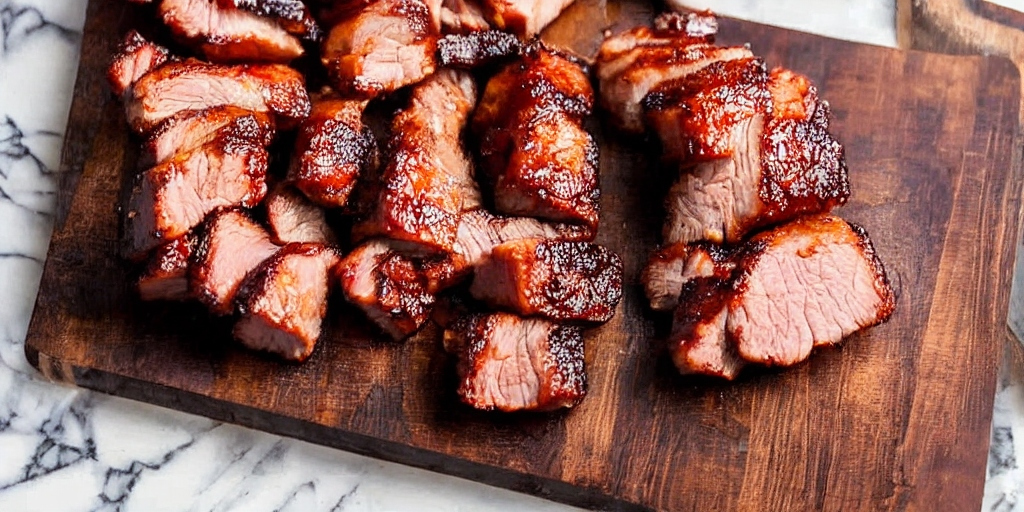
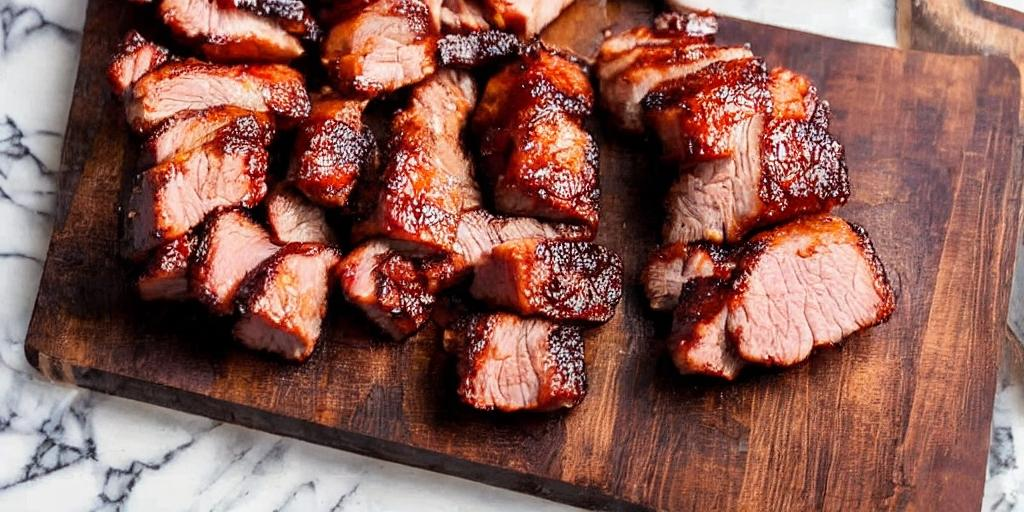
Optimize the image loading performance across site
Before, I was using non-compressed, non-resized, not defined width nor
height images, which got marked as diagnostic guidance in Google's
Lighthouse audit.

Now, with compressed, resized, and defined images, page performance is
better across the board, and Google's Lighthouse audit doesn't get mad.

Side-effects: Because the thumbnail images are specifically sized for
the current size of the thumbnail in the yoinked recipes section of the
home page, that might be an obstacle for a responsive design overhaul.

In case I forget what I did here specifically:
- Created dedicated re-sized & compressed thumbnails for the all recipes
section of the homepage
- Compressed images for the hero banners
- Set up the default image format to be webp, and fallbacks to jpg
- Set up preloads for the largest content picture all of the pages
- Ensured images have defined width & height within HTML

diff --git a/index.html b/index.html
@@ -6,16 +6,17 @@
         <meta name="viewport" content="width=device-width, initial-scale=1.0">
         <title>Home | *YOINKED*</title>
         <link rel="stylesheet" href="./styles.css">
+        <link rel="preload" fetchpriority="high" as="image" href="./assets/images/air-fryer-char-siu.webp" type="image/webp">
     </head>
     <body>
         <header>
             <a href="./" aria-label="*YOINKED* homepage">
-                <img class="logo-image" src="./assets/logos/rectangle-logo.svg" alt="*YOINKED* logo">
+                <img class="logo-image" src="./assets/logos/rectangle-logo.svg" alt="*YOINKED* logo" height="49" width="200">
             </a>
             <a class="header-level-entry" href="#yoinked-recipes">Recipes</a>
         </header>
-        <div class="featured">
-            <section class="featured-card">
+        <div class="featured air-fryer-char-siu-bg-img">
+            <section class="featured-card ">
                 <h2>Air Fryer Char Siu</h2>
                 <p>Succulent, sweet, and savory pork.</p>
                 <small>Yoinked from: Made with Lau</small>
@@ -28,7 +29,10 @@
                 <li>
                     <a href="./recipes/air-fryer-char-siu">
                         <figure>
-                            <img src="./assets/images/air-fryer-char-siu.jpg" height="140" width="156" alt="Chopped char siu on a wooden cutting board.">
+                            <picture>
+                                <source srcset="./assets/thumbnails/air-fryer-char-siu-thumbnail.webp" type="image/webp" height="140" width="156">
+                                <img src="./assets/thumbnails/air-fryer-char-siu-thumbnail.jpg" height="140" width="156" alt="Chopped char siu on a wooden cutting board.">
+                            </picture>
                             <figcaption>Air Fryer Char Siu</figcaption>
                         </figure>
                     </a>
@@ -36,7 +40,10 @@
                 <li>
                     <a href="./recipes/butter-chicken">
                         <figure>
-                            <img src="./assets/images/butter-chicken-and-rice.jpg" height="140" width="156" alt="Butter chicken & basmati rice in bowls.">
+                            <picture>
+                                <source srcset="./assets/thumbnails/butter-chicken-and-rice-thumbnail.webp" type="image/webp" height="140" width="156">
+                                <img src="./assets/thumbnails/butter-chicken-and-rice-thumbnail.jpg" height="140" width="156" alt="Butter chicken & basmati rice in bowls.">
+                            </picture>
                             <figcaption>Butter Chicken</figcaption>
                         </figure>
                     </a>
@@ -44,7 +51,10 @@
                 <li>
                     <a href="./recipes/steak-burrito-bowl">
                         <figure>
-                            <img src="./assets/images/steak-burrito-bowl.jpg" height="140" width="156" alt="Steak burrito bowl on a wood board.">
+                            <picture>
+                                <source srcset="./assets/thumbnails/steak-burrito-bowl-thumbnail.webp" type="image/webp" height="140" width="156">
+                                <img src="./assets/thumbnails/steak-burrito-bowl-thumbnail.jpg" height="140" width="156" alt="Steak burrito bowl on a wood board.">
+                            </picture>
                             <figcaption>Steak Burrito Bowl</figcaption>
                         </figure>
                     </a>

diff --git a/styles.css b/styles.css
@@ -50,7 +50,6 @@ footer {
 
 /* Featured Content Styling */
 .featured {
-   background-image: url("./assets/images/air-fryer-char-siu.jpg");
    background-color: grey;
    display: flex;
    flex-direction: row-reverse;
@@ -120,8 +119,6 @@ footer {
 }
 
 figure img {
-   object-fit: cover;
-   object-position: center;
    border-radius: 12px 12px 0 0 ;
 }
 
@@ -205,16 +202,16 @@ main {
 
 /* Images */
 .air-fryer-char-siu-bg-img {
-   background-image: url("./assets/images/air-fryer-char-siu.jpg");
+   background-image: url("./assets/images/air-fryer-char-siu.webp");
    background-position: 50% 25%;
 }
 
 .butter-chicken-and-rice-bg-img {
-   background-image: url("./assets/images/butter-chicken-and-rice.jpg");
+   background-image: url("./assets/images/butter-chicken-and-rice.webp");
    background-position: 50% 65%;
 }
 
 .steak-burrito-bowl-bg-img {
-   background-image: url("./assets/images/steak-burrito-bowl.jpg");
+   background-image: url("./assets/images/steak-burrito-bowl.webp");
    background-position: 50% 10%;
 }

diff --git a/recipes/butter-chicken/index.html b/recipes/butter-chicken/index.html
@@ -6,11 +6,12 @@
         <meta name="viewport" content="width=device-width, initial-scale=1.0">
         <title>Butter Chicken | *YOINKED*</title>
         <link rel="stylesheet" href="../../styles.css">
+        <link rel="preload" fetchpriority="high" as="image" href="../../assets/images/butter-chicken-and-rice.webp" type="image/webp">
     </head>
     <body>
         <header>
             <a href="../../" aria-label="*YOINKED* homepage">
-                <img class="logo-image" src="../../assets/logos/rectangle-logo.svg" alt="*YOINKED* logo">
+                <img class="logo-image" src="../../assets/logos/rectangle-logo.svg" alt="*YOINKED* logo" height="49" width="200">
             </a>
             <a class="header-level-entry" href="../../#yoinked-recipes">Recipes</a>
         </header>

diff --git a/recipes/air-fryer-char-siu/index.html b/recipes/air-fryer-char-siu/index.html
@@ -6,11 +6,12 @@
         <meta name="viewport" content="width=device-width, initial-scale=1.0">
         <title>Air Fryer Char Siu | *YOINKED*</title>
         <link rel="stylesheet" href="../../styles.css">
+        <link rel="preload" fetchpriority="high" as="image" href="../../assets/images/air-fryer-char-siu.webp" type="image/webp">
     </head>
     <body>
         <header>
             <a href="../../" aria-label="*YOINKED* homepage">
-                <img class="logo-image" src="../../assets/logos/rectangle-logo.svg" alt="*YOINKED* logo">
+                <img class="logo-image" src="../../assets/logos/rectangle-logo.svg" alt="*YOINKED* logo" height="49" width="200">
             </a>
             <a class="header-level-entry" href="../../#yoinked-recipes">Recipes</a>
         </header>

diff --git a/recipes/steak-burrito-bowl/index.html b/recipes/steak-burrito-bowl/index.html
@@ -6,11 +6,12 @@
         <meta name="viewport" content="width=device-width, initial-scale=1.0">
         <title>Steak Burrito Bowl | *YOINKED*</title>
         <link rel="stylesheet" href="../../styles.css">
+        <link rel="preload" fetchpriority="high" as="image" href="../../assets/images/steak-burrito-bowl.webp" type="image/webp">
     </head>
     <body>
         <header>
             <a href="../../" aria-label="*YOINKED* homepage">
-                <img class="logo-image" src="../../assets/logos/rectangle-logo.svg" alt="*YOINKED* logo">
+                <img class="logo-image" src="../../assets/logos/rectangle-logo.svg" alt="*YOINKED* logo" height="49" width="200">
             </a>
             <a class="header-level-entry" href="../../#yoinked-recipes">Recipes</a>
         </header>
